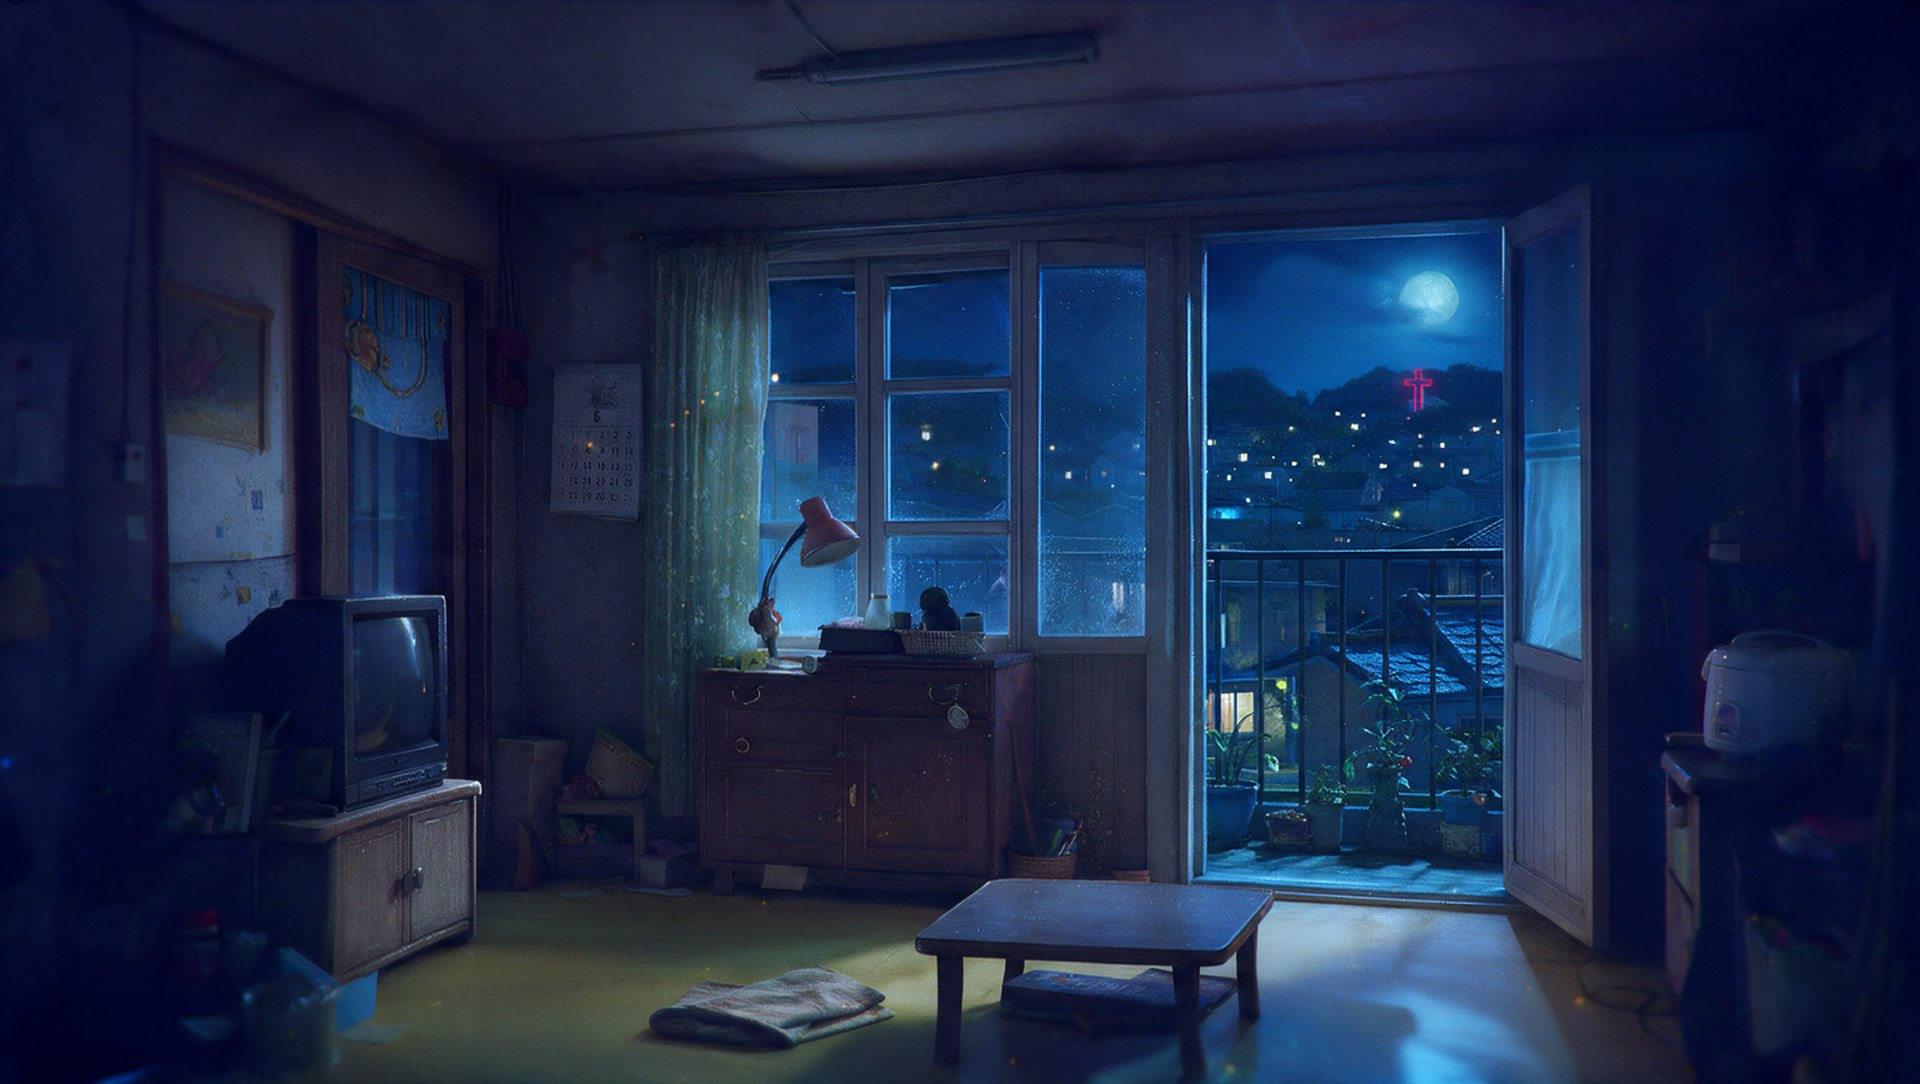
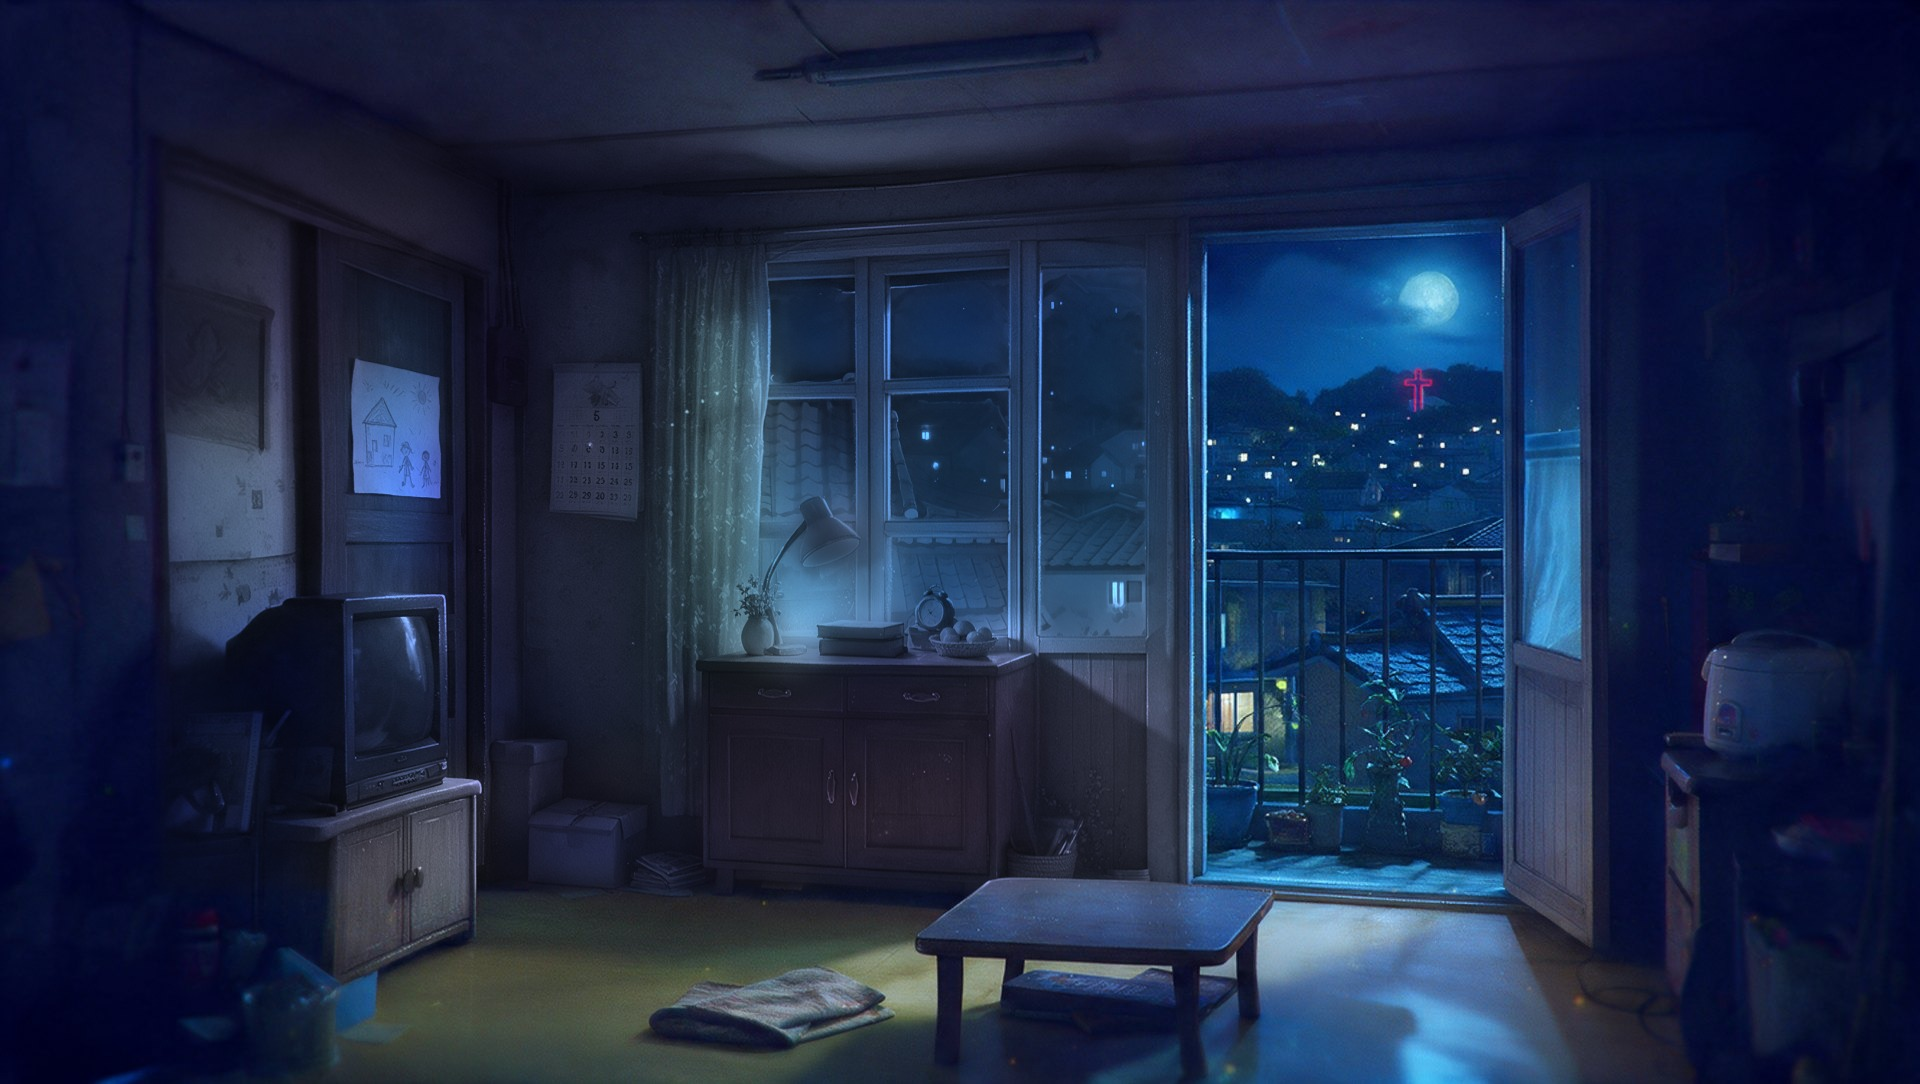
Korea: Seedream 5 Pro cleanup — flat dresser with even handles, clear objects, straight window, child's drawing on door; new glass mask
Claude-Session: https://claude.ai/code/session_01WmePPEVtycNtDwciTC66yT

diff --git a/public/index.html b/public/index.html
@@ -449,7 +449,7 @@ function framesFor(key){if(!LABFR||!LABFR[key])return null;if(FRM[key])return FR
     return Promise.all([...[...Array(j.n).keys()].flatMap(i=>[loadTex(dir+'/on_'+id(i)+'.jpg'),loadTex(dir+'/off_'+id(i)+'.jpg')]),
       ...[...Array(j.n-1).keys()].flatMap(i=>[loadTex(dir+'/fab_'+id(i)+'.png'),loadTex(dir+'/fba_'+id(i)+'.png')])])}).then(a=>{const m=2*F.n,A=a.slice(0,m),B=a.slice(m);
       F.on=A.filter((_,i)=>i%2==0);F.off=A.filter((_,i)=>i%2==1);F.fab=B.filter((_,i)=>i%2==0);F.fba=B.filter((_,i)=>i%2==1);F.ready=true}).catch(()=>{});return F}
-function texFor(key){if(!cache.has(key))cache.set(key,Promise.all(FILES.map(n=>loadTex(((LAB&&LAB[key])||key)+'/'+n+(/^(out_|mask|plate_|maps|cup_|shadow)/.test(n)?'?v=32':'')))).then(a=>Object.fromEntries(FILES.map((n,i)=>[n.split('.')[0],a[i]]))));return cache.get(key)}
+function texFor(key){if(!cache.has(key))cache.set(key,Promise.all(FILES.map(n=>loadTex(((LAB&&LAB[key])||key)+'/'+n+(/^(out_|mask|plate_|maps|cup_|shadow)/.test(n)?'?v=33':'')))).then(a=>Object.fromEntries(FILES.map((n,i)=>[n.split('.')[0],a[i]]))));return cache.get(key)}
 function evict(keep){for(const [k,p] of cache)if(!keep.includes(k)){cache.delete(k);p.then(T=>Object.values(T).forEach(t=>t.dispose()))}}
 const tvCan=document.createElement('canvas');tvCan.width=128;tvCan.height=96;const tvCtx=tvCan.getContext('2d');
 const tTV=new THREE.CanvasTexture(tvCan);tTV.minFilter=THREE.LinearFilter;tTV.generateMipmaps=false;

diff --git a/public/lab.html b/public/lab.html
@@ -450,7 +450,7 @@ function framesFor(key){if(!LABFR||!LABFR[key])return null;if(FRM[key])return FR
     return Promise.all([...[...Array(j.n).keys()].flatMap(i=>[loadTex(dir+'/on_'+id(i)+'.jpg'),loadTex(dir+'/off_'+id(i)+'.jpg')]),
       ...[...Array(j.n-1).keys()].flatMap(i=>[loadTex(dir+'/fab_'+id(i)+'.png'),loadTex(dir+'/fba_'+id(i)+'.png')])])}).then(a=>{const m=2*F.n,A=a.slice(0,m),B=a.slice(m);
       F.on=A.filter((_,i)=>i%2==0);F.off=A.filter((_,i)=>i%2==1);F.fab=B.filter((_,i)=>i%2==0);F.fba=B.filter((_,i)=>i%2==1);F.ready=true}).catch(()=>{});return F}
-function texFor(key){if(!cache.has(key))cache.set(key,Promise.all(FILES.map(n=>loadTex(((LAB&&LAB[key])||key)+'/'+n+(/^(out_|mask|plate_|maps|cup_|shadow)/.test(n)?'?v=32':'')))).then(a=>Object.fromEntries(FILES.map((n,i)=>[n.split('.')[0],a[i]]))));return cache.get(key)}
+function texFor(key){if(!cache.has(key))cache.set(key,Promise.all(FILES.map(n=>loadTex(((LAB&&LAB[key])||key)+'/'+n+(/^(out_|mask|plate_|maps|cup_|shadow)/.test(n)?'?v=33':'')))).then(a=>Object.fromEntries(FILES.map((n,i)=>[n.split('.')[0],a[i]]))));return cache.get(key)}
 function evict(keep){for(const [k,p] of cache)if(!keep.includes(k)){cache.delete(k);p.then(T=>Object.values(T).forEach(t=>t.dispose()))}}
 const tvCan=document.createElement('canvas');tvCan.width=128;tvCan.height=96;const tvCtx=tvCan.getContext('2d');
 const tTV=new THREE.CanvasTexture(tvCan);tTV.minFilter=THREE.LinearFilter;tTV.generateMipmaps=false;
